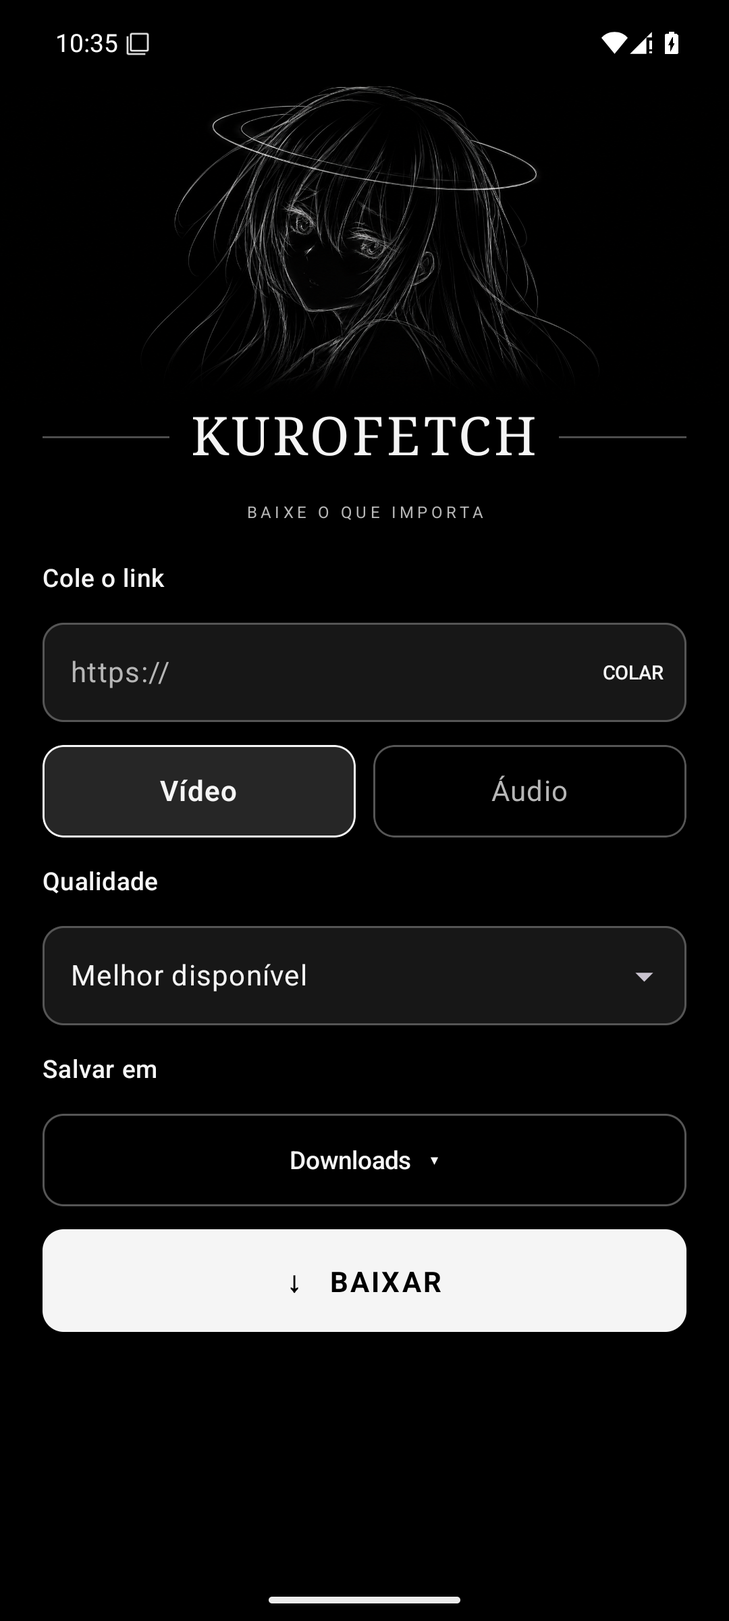
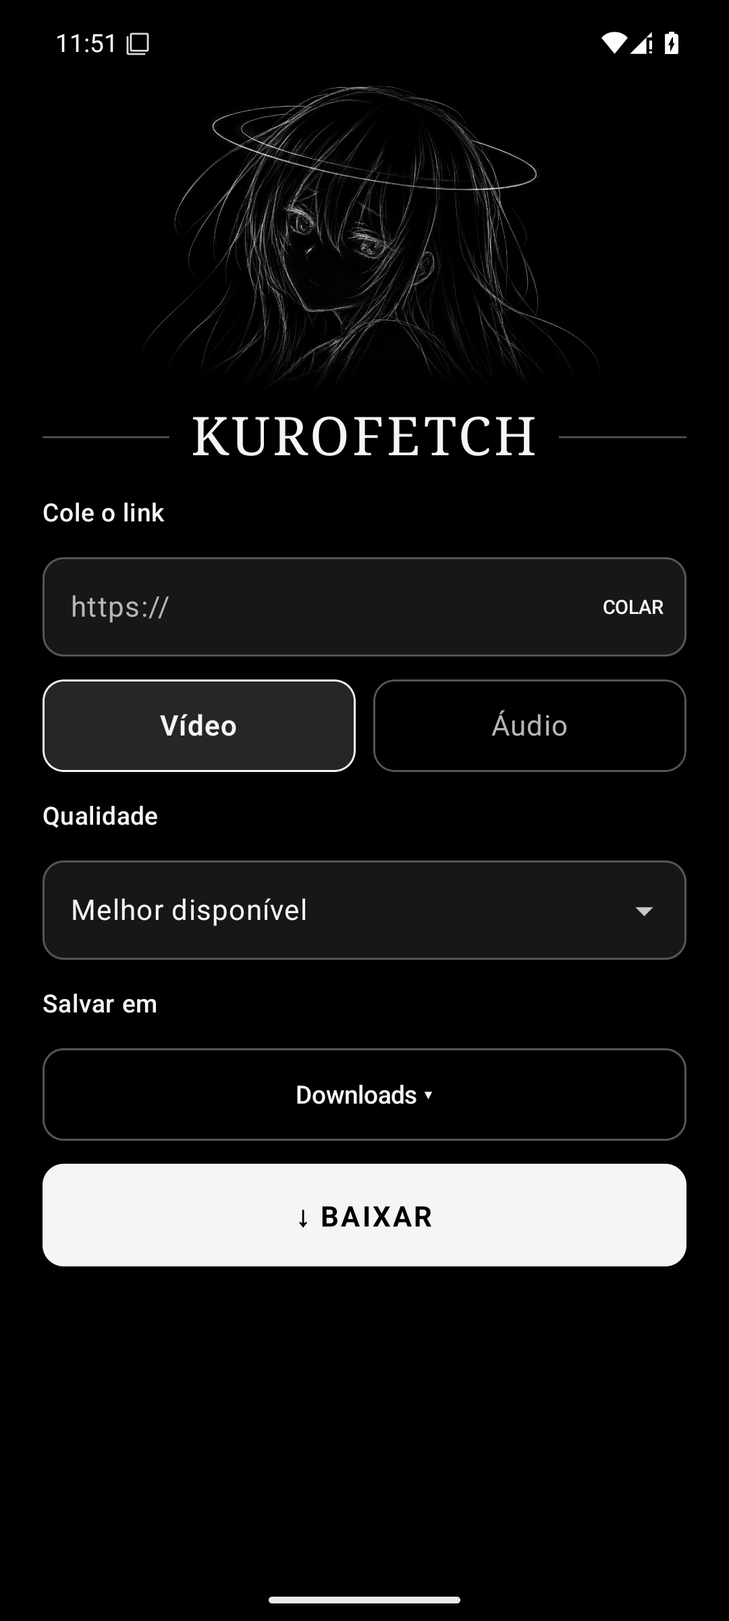
Add English localization

diff --git a/app/src/main/java/br/com/baixador/app/MainActivity.kt b/app/src/main/java/br/com/baixador/app/MainActivity.kt
@@ -28,10 +28,10 @@ import androidx.compose.ui.draw.clip
 import androidx.compose.ui.graphics.Color
 import androidx.compose.ui.platform.LocalClipboardManager
 import androidx.compose.ui.res.painterResource
+import androidx.compose.ui.res.stringResource
 import androidx.compose.ui.text.font.FontFamily
 import androidx.compose.ui.text.font.FontWeight
 import androidx.compose.ui.text.input.KeyboardType
-import androidx.compose.ui.text.style.TextAlign
 import androidx.compose.ui.unit.dp
 import androidx.compose.ui.unit.sp
 import androidx.compose.ui.layout.ContentScale
@@ -46,7 +46,7 @@ private val AppColors = darkColorScheme(primary = Light, onPrimary = Ink, backgr
 
 class MainActivity : ComponentActivity() {
     private val incoming = mutableStateOf("")
-    private val sharedError = mutableStateOf("")
+    private val sharedError = mutableIntStateOf(0)
 
     override fun onCreate(savedInstanceState: Bundle?) {
         super.onCreate(savedInstanceState)
@@ -57,16 +57,16 @@ class MainActivity : ComponentActivity() {
     private fun handleShare(intent: Intent?) {
         if (intent?.action != Intent.ACTION_SEND) return
         val value = DownloadOptions.sharedUrl(intent.getStringExtra(Intent.EXTRA_TEXT).orEmpty())
-        if (value == null) sharedError.value = "Nenhum link válido foi encontrado. Cole um link abaixo."
-        else { incoming.value = value; sharedError.value = "" }
+        if (value == null) sharedError.intValue = R.string.shared_link_invalid
+        else { incoming.value = value; sharedError.intValue = 0 }
     }
 
     @OptIn(ExperimentalMaterial3Api::class)
     @Composable
     fun Screen() {
         var link by rememberSaveable { mutableStateOf(incoming.value) }
-        var type by rememberSaveable { mutableStateOf("Vídeo") }
-        var quality by rememberSaveable { mutableStateOf("Melhor disponível") }
+        var type by rememberSaveable { mutableStateOf("video") }
+        var quality by rememberSaveable { mutableStateOf(DownloadOptions.BEST) }
         var expanded by remember { mutableStateOf(false) }
         var folder by remember { mutableStateOf(getPreferences(MODE_PRIVATE).getString("folder", null)) }
         val status by DownloadState.status.collectAsState()
@@ -80,7 +80,7 @@ class MainActivity : ComponentActivity() {
             if (uri != null) try {
                 contentResolver.takePersistableUriPermission(uri, Intent.FLAG_GRANT_READ_URI_PERMISSION or Intent.FLAG_GRANT_WRITE_URI_PERMISSION)
                 folder = uri.toString(); getPreferences(MODE_PRIVATE).edit().putString("folder", folder).apply()
-            } catch (_: SecurityException) { DownloadState.status.value = "Não foi possível acessar essa pasta. Escolha outra." }
+            } catch (_: SecurityException) { DownloadState.status.value = DisplayMessage(R.string.folder_access_failed) }
         }
         val notificationPermission = rememberLauncherForActivityResult(ActivityResultContracts.RequestPermission()) { }
         Surface(modifier = Modifier.fillMaxSize().statusBarsPadding().navigationBarsPadding(), color = Ink) {
@@ -94,67 +94,66 @@ class MainActivity : ComponentActivity() {
                             fontFamily = FontFamily.Serif, fontSize = 30.sp, letterSpacing = 2.sp, maxLines = 1)
                         HorizontalDivider(Modifier.weight(1f), color = Stroke)
                     }
-                    Text("BAIXE O QUE IMPORTA", Modifier.fillMaxWidth(), color = Muted, fontSize = 9.sp, letterSpacing = 2.4.sp, textAlign = TextAlign.Center)
-                    if (sharedError.value.isNotEmpty()) Text(sharedError.value, color = MaterialTheme.colorScheme.error, style = MaterialTheme.typography.bodySmall)
-                    FieldTitle("Cole o link")
-                    OutlinedTextField(value = link, onValueChange = { link = it; sharedError.value = "" },
+                    if (sharedError.intValue != 0) Text(stringResource(sharedError.intValue), color = MaterialTheme.colorScheme.error, style = MaterialTheme.typography.bodySmall)
+                    FieldTitle(stringResource(R.string.paste_link))
+                    OutlinedTextField(value = link, onValueChange = { link = it; sharedError.intValue = 0 },
                         modifier = Modifier.fillMaxWidth(), placeholder = { Text("https://", color = Muted) },
                         keyboardOptions = KeyboardOptions(keyboardType = KeyboardType.Uri), maxLines = 3,
                         trailingIcon = { TextButton(onClick = {
                             val text = clipboard.getText()?.text.orEmpty()
-                            if (text.isNotBlank()) { link = text; sharedError.value = "" }
-                            else sharedError.value = "Não há texto para colar."
-                        }) { Text("COLAR", fontSize = 11.sp, color = Light) } },
+                            if (text.isNotBlank()) { link = text; sharedError.intValue = 0 }
+                            else sharedError.intValue = R.string.clipboard_empty
+                        }) { Text(stringResource(R.string.paste), fontSize = 11.sp, color = Light) } },
                         shape = RoundedCornerShape(12.dp), colors = textFieldColors())
                     Row(Modifier.fillMaxWidth(), horizontalArrangement = Arrangement.spacedBy(10.dp)) {
-                        ModeChoice("Vídeo", type == "Vídeo", Modifier.weight(1f)) { type = "Vídeo"; quality = "Melhor disponível" }
-                        ModeChoice("Áudio", type == "Áudio", Modifier.weight(1f)) { type = "Áudio"; quality = "Melhor disponível" }
+                        ModeChoice(stringResource(R.string.video), type == "video", Modifier.weight(1f)) { type = "video"; quality = DownloadOptions.BEST }
+                        ModeChoice(stringResource(R.string.audio), type == "audio", Modifier.weight(1f)) { type = "audio"; quality = DownloadOptions.BEST }
                     }
-                    FieldTitle("Qualidade")
+                    FieldTitle(stringResource(R.string.quality))
                     ExposedDropdownMenuBox(expanded = expanded, onExpandedChange = { expanded = it }) {
-                        OutlinedTextField(value = quality, onValueChange = {}, readOnly = true,
+                        OutlinedTextField(value = qualityLabel(quality), onValueChange = {}, readOnly = true,
                             trailingIcon = { ExposedDropdownMenuDefaults.TrailingIcon(expanded) },
                             modifier = Modifier.menuAnchor().fillMaxWidth(), shape = RoundedCornerShape(12.dp), colors = textFieldColors())
                         ExposedDropdownMenu(expanded = expanded, onDismissRequest = { expanded = false }) {
-                            (if (type == "Vídeo") DownloadOptions.video else DownloadOptions.audio).forEach { option ->
-                                DropdownMenuItem(text = { Text(option) }, onClick = { quality = option; expanded = false })
+                            (if (type == "video") DownloadOptions.video else DownloadOptions.audio).forEach { option ->
+                                DropdownMenuItem(text = { Text(qualityLabel(option)) }, onClick = { quality = option; expanded = false })
                             }
                         }
                     }
-                    FieldTitle("Salvar em")
+                    FieldTitle(stringResource(R.string.save_to))
                     Row(Modifier.fillMaxWidth(), horizontalArrangement = Arrangement.spacedBy(8.dp), verticalAlignment = Alignment.CenterVertically) {
                         OutlinedButton(onClick = { folderPicker.launch(null) }, modifier = Modifier.weight(1f).height(52.dp),
                             shape = RoundedCornerShape(12.dp), border = androidx.compose.foundation.BorderStroke(1.dp, Stroke),
                             contentPadding = PaddingValues(horizontal = 12.dp)) {
-                            Text(if (folder == null) "Downloads   ▾" else "Pasta escolhida   ▾", color = Light, fontSize = 14.sp, maxLines = 1)
+                            Text(stringResource(if (folder == null) R.string.downloads_menu else R.string.chosen_folder_menu), color = Light, fontSize = 14.sp, maxLines = 1)
                         }
-                        if (folder != null) TextButton(onClick = { folder = null; getPreferences(MODE_PRIVATE).edit().remove("folder").apply() }) { Text("Downloads", color = Light, fontSize = 12.sp) }
+                        if (folder != null) TextButton(onClick = { folder = null; getPreferences(MODE_PRIVATE).edit().remove("folder").apply() }) { Text(stringResource(R.string.downloads), color = Light, fontSize = 12.sp) }
                     }
                     Button(enabled = !busy, onClick = {
                         val url = DownloadOptions.sharedUrl(link.trim())
-                        if (url == null) sharedError.value = "Cole um link válido começando com http:// ou https://."
+                        if (url == null) sharedError.intValue = R.string.link_invalid
                         else if (DownloadState.busy.compareAndSet(false, true)) {
-                            sharedError.value = ""; DownloadState.progress.value = null; DownloadState.result.value = null
-                            DownloadState.status.value = "Preparando download..."
+                            sharedError.intValue = 0; DownloadState.progress.value = null; DownloadState.result.value = null
+                            DownloadState.status.value = DisplayMessage(R.string.download_preparing)
                             if (Build.VERSION.SDK_INT >= 33 && ContextCompat.checkSelfPermission(this@MainActivity, Manifest.permission.POST_NOTIFICATIONS) != PackageManager.PERMISSION_GRANTED) notificationPermission.launch(Manifest.permission.POST_NOTIFICATIONS)
                             try {
                                 ContextCompat.startForegroundService(this@MainActivity, Intent(this@MainActivity, DownloadService::class.java).apply {
-                                    putExtra("url", url); putExtra("audio", type == "Áudio"); putExtra("quality", quality); putExtra("folder", folder)
+                                    putExtra("url", url); putExtra("audio", type == "audio"); putExtra("quality", quality); putExtra("folder", folder)
                                 })
-                            } catch (e: Exception) { DownloadState.busy.set(false); DownloadState.status.value = "Não foi possível iniciar o download: ${e.message}" }
+                            } catch (e: Exception) { DownloadState.busy.set(false); DownloadState.status.value = DisplayMessage(R.string.download_start_failed) }
                         }
                     }, modifier = Modifier.fillMaxWidth().height(58.dp), shape = RoundedCornerShape(12.dp),
                         colors = ButtonDefaults.buttonColors(containerColor = Light, contentColor = Ink, disabledContainerColor = Color(0xFF555555), disabledContentColor = Light)) {
-                        Text(if (busy) "BAIXANDO..." else "↓   BAIXAR", fontWeight = FontWeight.Bold, letterSpacing = 1.2.sp, fontSize = 16.sp)
+                        Text(stringResource(if (busy) R.string.downloading_action else R.string.download_action), fontWeight = FontWeight.Bold, letterSpacing = 1.2.sp, fontSize = 16.sp)
                     }
-                    if (busy || result != null || status != "Cole ou compartilhe um link para começar.") {
+                    if (busy || result != null || status != null) {
                         Column(Modifier.fillMaxWidth().border(1.dp, Stroke, RoundedCornerShape(12.dp)).padding(14.dp), verticalArrangement = Arrangement.spacedBy(8.dp)) {
-                            Text(status, color = Light, style = MaterialTheme.typography.bodySmall)
+                            status?.let { Text(stringResource(it.resource, *it.arguments.toTypedArray()), color = Light, style = MaterialTheme.typography.bodySmall) }
                             if (busy) {
                                 if (progress == null) LinearProgressIndicator(modifier = Modifier.fillMaxWidth(), color = Light, trackColor = Stroke)
                                 else LinearProgressIndicator(progress = { (progress ?: 0) / 100f }, modifier = Modifier.fillMaxWidth(), color = Light, trackColor = Stroke)
                             }
-                            if (result != null) TextButton(onClick = { openResult(Uri.parse(result)) }) { Text("ABRIR ARQUIVO", color = Light) }
+                            if (result != null) TextButton(onClick = { openResult(Uri.parse(result)) }) { Text(stringResource(R.string.open_file), color = Light) }
                         }
                     }
                     Spacer(Modifier.height(18.dp))
@@ -162,6 +161,8 @@ class MainActivity : ComponentActivity() {
             }
         }
     }
+
+    @Composable private fun qualityLabel(quality: String): String = if (quality == DownloadOptions.BEST) stringResource(R.string.quality_best) else quality
 
     @Composable private fun FieldTitle(text: String) { Text(text, color = Light, fontSize = 14.sp, fontWeight = FontWeight.Medium) }
     @Composable private fun ModeChoice(text: String, selected: Boolean, modifier: Modifier, onClick: () -> Unit) {
@@ -176,6 +177,6 @@ class MainActivity : ComponentActivity() {
 
     private fun openResult(uri: Uri) {
         try { startActivity(Intent(Intent.ACTION_VIEW).setDataAndType(uri, contentResolver.getType(uri) ?: "*/*").addFlags(Intent.FLAG_GRANT_READ_URI_PERMISSION)) }
-        catch (_: Exception) { DownloadState.status.value = "Arquivo salvo, mas não há aplicativo disponível para abri-lo." }
+        catch (_: Exception) { DownloadState.status.value = DisplayMessage(R.string.file_open_failed) }
     }
 }

diff --git a/app/src/main/java/br/com/baixador/app/DownloadService.kt b/app/src/main/java/br/com/baixador/app/DownloadService.kt
@@ -28,18 +28,18 @@ class DownloadService : Service() {
 
     override fun onCreate() {
         super.onCreate()
-        getSystemService<NotificationManager>()?.createNotificationChannel(NotificationChannel(channel, "Downloads", NotificationManager.IMPORTANCE_LOW))
+        getSystemService<NotificationManager>()?.createNotificationChannel(NotificationChannel(channel, getString(R.string.downloads), NotificationManager.IMPORTANCE_LOW))
     }
 
     override fun onStartCommand(intent: Intent?, flags: Int, startId: Int): Int {
-        startForeground(notificationId, notification("Preparando download...", null))
+        startForeground(notificationId, notification(getString(R.string.download_preparing), null))
         val url = intent?.getStringExtra("url")
         if (url.isNullOrBlank()) {
-            DownloadState.busy.set(false); DownloadState.status.value = "Não foi possível iniciar o download."
+            DownloadState.busy.set(false); DownloadState.status.value = DisplayMessage(R.string.download_start_failed)
             stopForeground(STOP_FOREGROUND_REMOVE); stopSelf(startId); return START_NOT_STICKY
         }
         val audio = intent.getBooleanExtra("audio", false)
-        val quality = intent.getStringExtra("quality") ?: "Melhor disponível"
+        val quality = intent.getStringExtra("quality") ?: DownloadOptions.BEST
         val folder = intent.getStringExtra("folder")
         Thread { download(url, audio, quality, folder, startId) }.start()
         return START_NOT_STICKY
@@ -62,10 +62,11 @@ class DownloadService : Service() {
         return builder.build()
     }
 
-    private fun publish(message: String, percent: Int?) {
+    private fun publish(message: DisplayMessage, percent: Int?) {
         DownloadState.progress.value = percent
         DownloadState.status.value = message
-        getSystemService<NotificationManager>()?.notify(notificationId, notification(message, percent))
+        val text = getString(message.resource, *message.arguments.toTypedArray())
+        getSystemService<NotificationManager>()?.notify(notificationId, notification(text, percent))
     }
 
     private fun download(url: String, audio: Boolean, quality: String, folder: String?, startId: Int) {
@@ -83,26 +84,26 @@ class DownloadService : Service() {
             else request.addOption("-f", DownloadOptions.selector(quality)).addOption("-S", "res,ext:mp4:m4a").addOption("--merge-output-format", "mp4")
             YoutubeDL.execute(request, "download", false) { percent, _, _ ->
                 val p = percent.toInt().coerceIn(0, 100)
-                publish(if (p == 100) "Preparando o arquivo..." else "Baixando... $p%", p)
+                publish(if (p == 100) DisplayMessage(R.string.download_preparing_file) else DisplayMessage(R.string.download_progress, listOf(p)), p)
             }
-            publish("Salvando arquivo...", null)
+            publish(DisplayMessage(R.string.download_saving), null)
             val file = temporary.listFiles()?.filter { it.isFile && !it.name.endsWith(".part") && !it.name.endsWith(".ytdl") }
-                ?.maxByOrNull { it.lastModified() } ?: throw IllegalStateException("O arquivo final não foi encontrado.")
+                ?.maxByOrNull { it.lastModified() } ?: throw IllegalStateException(getString(R.string.file_not_found))
             completed = saveFile(file, folder)
             DownloadState.result.value = completed.toString()
             DownloadState.busy.set(false)
             DownloadState.progress.value = 100
-            DownloadState.status.value = "Download concluído! Toque em Abrir arquivo."
+            DownloadState.status.value = DisplayMessage(R.string.download_complete)
             stopForeground(STOP_FOREGROUND_REMOVE)
-            getSystemService<NotificationManager>()?.notify(notificationId, notification("Download concluído. Toque para abrir.", null, completed))
+            getSystemService<NotificationManager>()?.notify(notificationId, notification(getString(R.string.notification_complete), null, completed))
         } catch (e: Exception) {
             DownloadState.busy.set(false)
             val detail = e.message?.replace('\n', ' ')?.take(280).orEmpty()
-            val msg = "Não foi possível concluir. Verifique o link, a conexão e o acesso à pasta." + if (detail.isNotEmpty()) " Detalhes: $detail" else ""
+            val msg = if (detail.isNotEmpty()) DisplayMessage(R.string.download_failed_details, listOf(detail)) else DisplayMessage(R.string.download_failed)
             DownloadState.status.value = msg
             DownloadState.progress.value = null
             stopForeground(STOP_FOREGROUND_REMOVE)
-            getSystemService<NotificationManager>()?.notify(notificationId, notification(msg, null))
+            getSystemService<NotificationManager>()?.notify(notificationId, notification(getString(msg.resource, *msg.arguments.toTypedArray()), null))
         } finally {
             temporary.deleteRecursively()
             stopSelf(startId)
@@ -115,10 +116,10 @@ class DownloadService : Service() {
         val marker = File(directory, "bundled-version")
         val version = "2026.10.26"
         if (binary.isFile && marker.isFile && marker.readText() == version) return
-        check(directory.isDirectory || directory.mkdirs()) { "Não foi possível preparar o yt-dlp." }
+        check(directory.isDirectory || directory.mkdirs()) { getString(R.string.ytdlp_prepare_failed) }
         val temporary = File(directory, "yt-dlp.new")
         resources.openRawResource(R.raw.ytdlp).use { input -> temporary.outputStream().use { output -> input.copyTo(output) } }
-        check(temporary.renameTo(binary)) { "Não foi possível atualizar o yt-dlp." }
+        check(temporary.renameTo(binary)) { getString(R.string.ytdlp_update_failed) }
         marker.writeText(version)
     }
 
@@ -127,18 +128,18 @@ class DownloadService : Service() {
         val tree = folder?.let(Uri::parse)
         val uri = if (tree != null) {
             val parent = DocumentsContract.buildDocumentUriUsingTree(tree, DocumentsContract.getTreeDocumentId(tree))
-            DocumentsContract.createDocument(contentResolver, parent, mime, file.name) ?: throw IllegalStateException("Não foi possível criar o arquivo na pasta escolhida.")
+            DocumentsContract.createDocument(contentResolver, parent, mime, file.name) ?: throw IllegalStateException(getString(R.string.folder_create_failed))
         } else {
             val values = ContentValues().apply {
                 put(MediaStore.MediaColumns.DISPLAY_NAME, file.name); put(MediaStore.MediaColumns.MIME_TYPE, mime)
                 put(MediaStore.MediaColumns.RELATIVE_PATH, Environment.DIRECTORY_DOWNLOADS + "/Baixador")
                 put(MediaStore.MediaColumns.IS_PENDING, 1)
             }
-            contentResolver.insert(MediaStore.Downloads.EXTERNAL_CONTENT_URI, values) ?: throw IllegalStateException("Não foi possível criar o arquivo em Downloads.")
+            contentResolver.insert(MediaStore.Downloads.EXTERNAL_CONTENT_URI, values) ?: throw IllegalStateException(getString(R.string.downloads_create_failed))
         }
         try {
             contentResolver.openOutputStream(uri)?.use { output -> file.inputStream().use { input -> input.copyTo(output) } }
-                ?: throw IllegalStateException("Não foi possível gravar o arquivo.")
+                ?: throw IllegalStateException(getString(R.string.file_write_failed))
             if (tree == null) contentResolver.update(uri, ContentValues().apply { put(MediaStore.MediaColumns.IS_PENDING, 0) }, null, null)
             return uri
         } catch (e: Exception) {
@@ -147,4 +148,3 @@ class DownloadService : Service() {
         }
     }
 }
-

diff --git a/app/src/main/java/br/com/baixador/app/DownloadState.kt b/app/src/main/java/br/com/baixador/app/DownloadState.kt
@@ -1,23 +1,27 @@
 package br.com.baixador.app
 
+import androidx.annotation.StringRes
 import kotlinx.coroutines.flow.MutableStateFlow
 import java.util.concurrent.atomic.AtomicBoolean
 
+data class DisplayMessage(@StringRes val resource: Int, val arguments: List<Any> = emptyList())
+
 object DownloadState {
     val busy = AtomicBoolean(false)
-    val status = MutableStateFlow("Cole ou compartilhe um link para começar.")
+    val status = MutableStateFlow<DisplayMessage?>(null)
     val progress = MutableStateFlow<Int?>(null)
     val result = MutableStateFlow<String?>(null)
 }
 
 object DownloadOptions {
-    val video = listOf("Melhor disponível", "1080p", "720p", "480p")
-    val audio = listOf("Melhor disponível", "320 kbps", "192 kbps", "128 kbps")
+    const val BEST = "best"
+    val video = listOf(BEST, "1080p", "720p", "480p")
+    val audio = listOf(BEST, "320 kbps", "192 kbps", "128 kbps")
     private val urlRegex = Regex("https?://[^\\s<>\\\"']+", RegexOption.IGNORE_CASE)
     fun sharedUrl(text: String): String? = urlRegex.find(text)?.value?.trimEnd('.', ',', ')', ']', '!', '?')
     fun selector(quality: String): String {
-        val limit = if (quality == video[0]) "" else "[height<=?${quality.removeSuffix("p")}]"
+        val limit = if (quality == BEST) "" else "[height<=?${quality.removeSuffix("p")}]"
         return "bv*$limit+ba/b$limit"
     }
-    fun bitrate(quality: String) = if (quality == audio[0]) "0" else quality.substringBefore(' ') + "K"
+    fun bitrate(quality: String) = if (quality == BEST) "0" else quality.substringBefore(' ') + "K"
 }

diff --git a/app/src/test/java/br/com/baixador/app/DownloadOptionsTest.kt b/app/src/test/java/br/com/baixador/app/DownloadOptionsTest.kt
@@ -9,11 +9,11 @@ class DownloadOptionsTest {
         assertNull(DownloadOptions.sharedUrl("não tem link"))
     }
     @Test fun videoLimits() {
-        assertEquals("bv*+ba/b", DownloadOptions.selector("Melhor disponível"))
+        assertEquals("bv*+ba/b", DownloadOptions.selector(DownloadOptions.BEST))
         assertEquals("bv*[height<=?720]+ba/b[height<=?720]", DownloadOptions.selector("720p"))
     }
     @Test fun audioBitrate() {
-        assertEquals("0", DownloadOptions.bitrate("Melhor disponível"))
+        assertEquals("0", DownloadOptions.bitrate(DownloadOptions.BEST))
         assertEquals("192K", DownloadOptions.bitrate("192 kbps"))
     }
 }

diff --git a/README.en.md b/README.en.md
@@ -1,0 +1,39 @@
+# KuroFetch
+
+**Download what matters.**
+
+[Leia em português](README.md)
+
+A minimal black-and-white Android app for downloading media. Processing takes place on your device using yt-dlp and FFmpeg.
+
+![KuroFetch screenshot](docs/screen-en.png)
+
+## Features
+
+- Share links from Android apps or paste a URL.
+- Download video or MP3 audio, with quality options.
+- Save to Downloads or choose another folder.
+- Track background downloads through a notification.
+- The interface follows the device language, with English and Portuguese available.
+
+Available formats depend on the source and content. Downloads are started one at a time. Spotify links are not specifically supported. Only download content when you have permission to do so and follow the source platform’s terms.
+
+## Compatibility
+
+- Android 10 or later.
+- The app includes yt-dlp, a Python runtime, QuickJS and FFmpeg through the components described in [THIRD_PARTY_NOTICES.md](THIRD_PARTY_NOTICES.md).
+- External services may change and require updates. Not all sites or links have been tested.
+
+## Build
+
+Open the project in Android Studio or use JDK 17 or later and Android SDK 35:
+
+```bash
+./gradlew assembleDebug testDebugUnitTest
+```
+
+On Windows, replace `./gradlew` with `gradlew.bat`. The debug APK is created at `app/build/outputs/apk/debug/`. It is signed with the build machine’s debug key and is not intended as a production release.
+
+## License
+
+KuroFetch is available under the [GNU General Public License version 3](LICENSE). Dependencies and bundled components have their own notices and licenses; see [THIRD_PARTY_NOTICES.md](THIRD_PARTY_NOTICES.md).

diff --git a/README.md b/README.md
@@ -1,5 +1,9 @@
 # KuroFetch
 
+**Baixe o que importa.**
+
+[Read in English](README.en.md)
+
 Um aplicativo Android para baixar mídia, com uma interface minimalista em preto e branco. O processamento acontece no próprio dispositivo usando yt-dlp e FFmpeg.
 
 ![Tela do KuroFetch](docs/tela.png)
@@ -15,7 +19,7 @@ A disponibilidade dos formatos depende da fonte e do conteúdo. Cada download é
 
 ## Compatibilidade
 
-- Android 10 ou superior.
+- Android 10 ou superior, com interface em português ou inglês conforme o idioma do dispositivo.
 - O aplicativo inclui yt-dlp, um runtime Python, QuickJS e FFmpeg através dos componentes indicados em [THIRD_PARTY_NOTICES.md](THIRD_PARTY_NOTICES.md).
 - Serviços externos podem mudar e exigir atualizações. Nem todos os sites e links foram testados.
 
